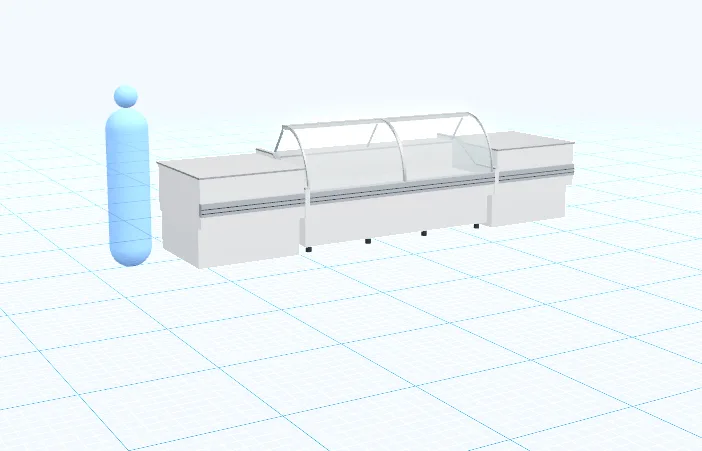
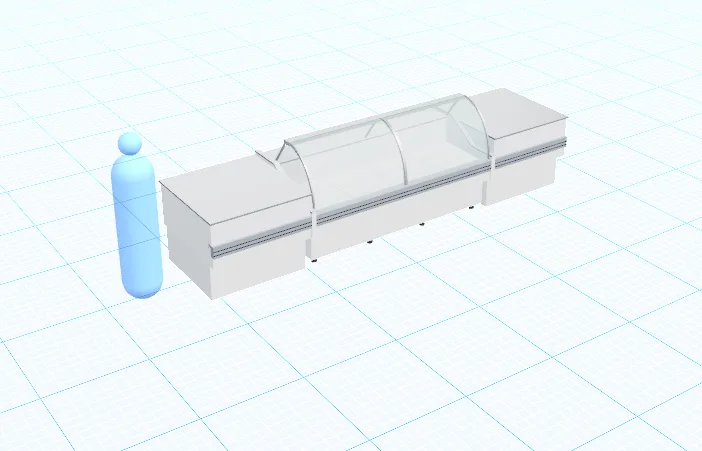
feat: vista costado desde la otra punta, perspectiva más alta para la captura y desplazamiento de la vista (clic derecho, dos dedos, flechas) con ayuda de controles en desktop y táctil

diff --git a/client/src/configurador/Escena.jsx b/client/src/configurador/Escena.jsx
@@ -46,8 +46,9 @@ const Reencuadre = ({ clave }) => {
 const DIRECCION_VISTA = /** @type {Record<string, [number, number, number]>} */ ({
   frente: [0, 1.2, 5],             // de frente, del lado del cliente
   vendedor: [0, 1.2, -5],          // desde atrás: mesada, depósito y puertas traseras
-  costado: [-5, 1.2, 0.3],         // desde la punta izquierda, del lado de la silueta
-  perspectiva: [-1.8, 1.7, 4.5],   // tres cuartos, del lado de la silueta (la vista inicial)
+  costado: [5, 1.2, 0.3],          // desde la punta derecha: la silueta queda al fondo y no tapa la batea
+  perspectiva: [-2.2, 3.4, 4.5],   // tres cuartos y de arriba (~33°), del lado de la silueta: la vista inicial y
+                                   // la de la captura del presupuesto (se ve la tina y cómo dobla la línea)
   arriba: [0, 8, 0.01],            // planta (el 0.01 evita la cámara exactamente vertical)
 });
 
@@ -122,6 +123,46 @@ const ContarCuadros = ({ cuadros }) => {
   return null;
 };
 
+// Desplazamiento (pan): hasta dónde puede ir el centro de la vista. No baja del piso ni sube más que la
+// batea, y no se aleja de la línea más que esto (m), así no se "pierde" el equipo.
+const ALTO_MAXIMO_CENTRO = 1.6;
+const LIMITE_HORIZONTAL = 14;
+
+/**
+ * Configura los controles de la cámara para desplazar la vista: flechas del teclado cuando el foco está
+ * en el 3D (se puede enfocar con un clic o con Tab) y límites para el centro de la vista.
+ */
+const ControlesDeDesplazamiento = () => {
+  const controles = /** @type {any} */ (useThree((s) => s.controls)); // OrbitControls (makeDefault)
+  const gl = useThree((s) => s.gl);
+  useEffect(() => {
+    if (!controles) return;
+    const lienzo = gl.domElement;
+    lienzo.tabIndex = 0; // así las flechas solo mueven la vista cuando el foco está en el 3D, no en el panel
+    controles.listenToKeyEvents?.(lienzo);
+    const limitar = () => {
+      const t = controles.target;
+      const y = Math.min(Math.max(t.y, 0), ALTO_MAXIMO_CENTRO);
+      const x = Math.min(Math.max(t.x, -LIMITE_HORIZONTAL), LIMITE_HORIZONTAL);
+      const z = Math.min(Math.max(t.z, -LIMITE_HORIZONTAL), LIMITE_HORIZONTAL);
+      if (x !== t.x || y !== t.y || z !== t.z) {
+        // Se corren juntos el centro y la cámara, para no cambiar el ángulo de la vista
+        const dx = x - t.x, dy = y - t.y, dz = z - t.z;
+        t.set(x, y, z);
+        controles.object.position.x += dx;
+        controles.object.position.y += dy;
+        controles.object.position.z += dz;
+      }
+    };
+    controles.addEventListener('change', limitar);
+    return () => {
+      controles.removeEventListener('change', limitar);
+      controles.stopListenToKeyEvents?.();
+    };
+  }, [controles, gl]);
+  return null;
+};
+
 /** Solo en desarrollo: deja el renderer a mano para medir fugas (gl.info) desde la consola o un script. */
 const ExponerRenderer = () => {
   const gl = useThree((s) => s.gl);
@@ -161,6 +202,8 @@ const Escena = ({ vista, config, cotas, capturador }) => {
     };
   }, []);
   const bajarCalidad = () => setCalidad('baja');
+  // Ayuda táctil: se ve hasta el primer toque en el 3D (en desktop la ayuda queda fija y no la afecta)
+  const [tocado, setTocado] = useState(false);
   const alta = calidad === 'alta';
 
   return (
@@ -169,6 +212,7 @@ const Escena = ({ vista, config, cotas, capturador }) => {
         role="img"
         aria-label="Vista 3D de la línea configurada. Se puede girar arrastrando; las opciones están en el panel."
         frameloop={midiendo ? 'always' : 'demand'}
+        onPointerDown={() => setTocado(true)}
         dpr={alta ? [1, 1.75] : 1}
         gl={{ preserveDrawingBuffer: true }} // necesario para sacar la captura del canvas más adelante
         camera={{ position: DIRECCION_VISTA.perspectiva, fov: 40 }} // del lado de la silueta, para que no quede tapada
@@ -224,15 +268,23 @@ const Escena = ({ vista, config, cotas, capturador }) => {
         )}
 
         {/* Ángulo polar limitado: la cámara no puede bajar del piso */}
+        {/* Girar (arrastrar), zoom (rueda o pellizco) y desplazar la vista: clic derecho o Ctrl/Shift +
+            arrastrar en la compu, dos dedos en el celular, flechas con el foco en el 3D.
+            Ángulo polar limitado: la cámara no puede bajar del piso. */}
         <OrbitControls
           makeDefault
-          enablePan={false}
+          enablePan
+          screenSpacePanning
+          keyPanSpeed={20}
           maxPolarAngle={Math.PI / 2 - 0.05}
           minDistance={1.5}
           maxDistance={25} // una línea larga vista desde arriba necesita alejarse
         />
+        <ControlesDeDesplazamiento />
       </Canvas>
       {!alta && <p className="cfg-calidad">Calidad reducida para este equipo</p>}
+      <p className="cfg-ayuda-controles">Arrastrá para girar · clic derecho para mover · rueda para zoom</p>
+      {!tocado && <p className="cfg-ayuda-tactil">1 dedo: girar · 2 dedos: mover y zoom</p>}
     </>
   );
 };

diff --git a/client/src/configurador/configurador.css b/client/src/configurador/configurador.css
@@ -114,6 +114,36 @@
   pointer-events: none;
 }
 
+/* Ayuda de los controles del 3D (solo desktop: en el celular los gestos son los habituales) */
+.cfg-ayuda-controles,
+.cfg-ayuda-tactil {
+  display: none;
+  position: absolute;
+  right: .6rem;
+  bottom: .6rem;
+  margin: 0;
+  padding: .2em .7em;
+  font-size: .72rem;
+  color: var(--text-soft);
+  background: rgba(255, 255, 255, .75);
+  border-radius: var(--r-pill);
+  pointer-events: none;
+}
+@media (min-width: 768px) and (hover: hover) {
+  .cfg-ayuda-controles { display: block; }
+}
+/* En pantallas táctiles: centrada abajo, hasta el primer toque en el 3D */
+@media (hover: none) and (pointer: coarse) {
+  .cfg-ayuda-tactil {
+    display: block;
+    left: 50%;
+    right: auto;
+    transform: translateX(-50%);
+    white-space: nowrap;
+  }
+}
+.cfg-visor canvas:focus-visible { outline: 2px solid var(--accent); outline-offset: -2px; }
+
 /* Sin WebGL: imágenes de referencia en lugar del 3D */
 .cfg-visor-sin3d {
   touch-action: auto;
